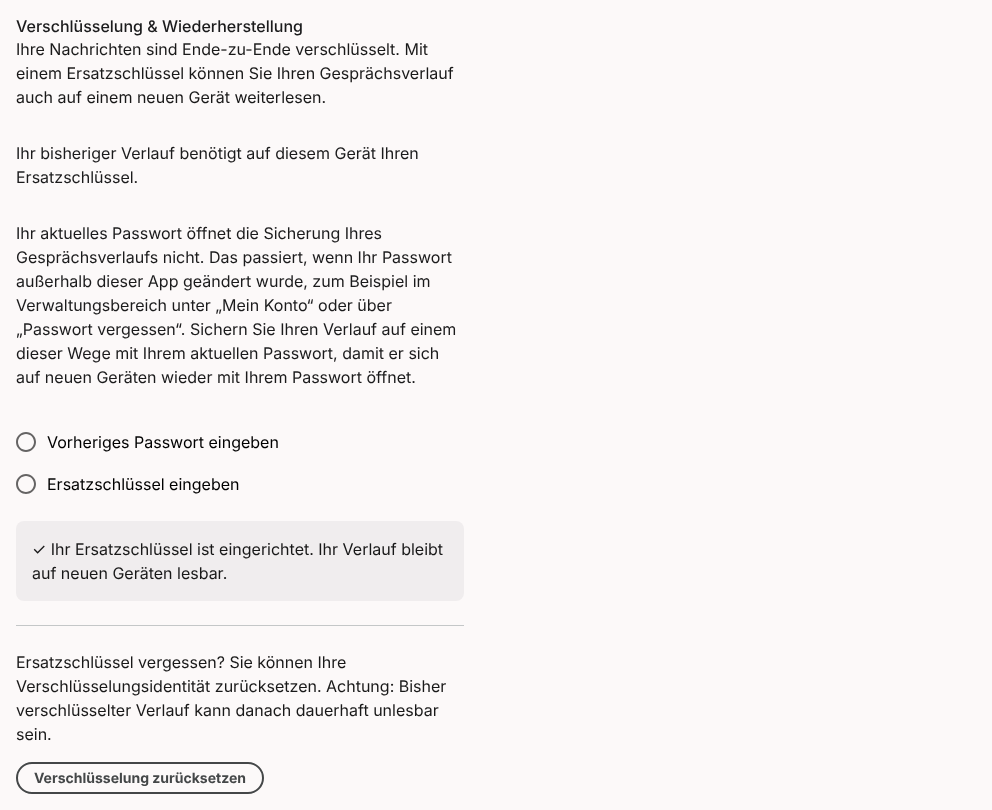
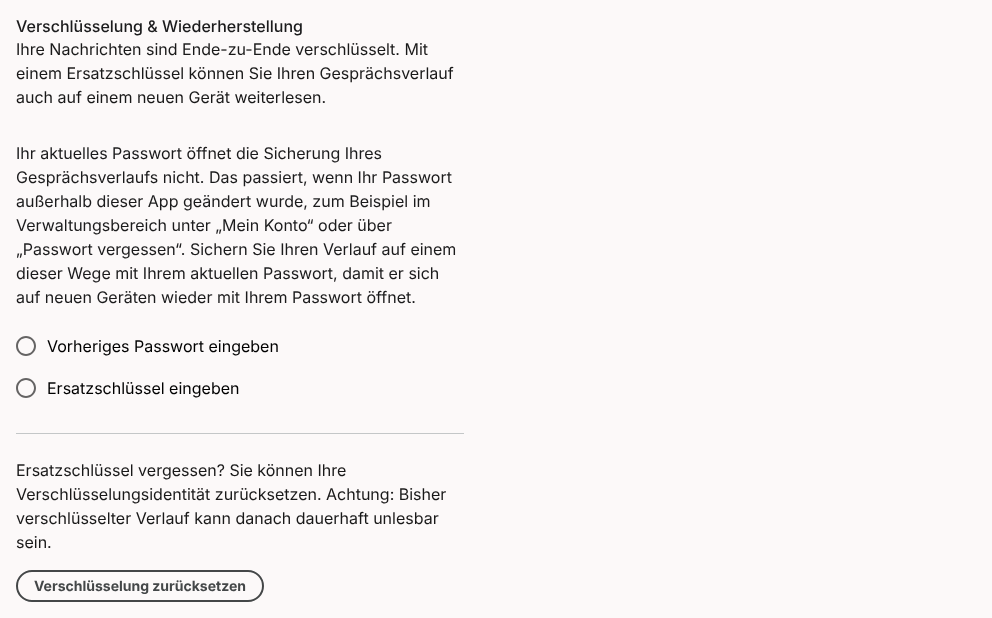
fix(e2ee): one clear message while the history is sealed under the previous password (#1931)
While the stale-envelope repair is offered, the panel showed the generic
'needs the recovery key' line above it and the green 'set up, stays readable
on new devices' box below it - the latter untrue in that state. The status
line now carries the stale explanation alone, and the success box only
appears once the history opens with the current password again.

Refs #1931

Claude-Session: https://claude.ai/code/session_012oHuLwgsF18sXNLUVhMCvk

Changed region(s): [[0.0, 0.0307, 0.4688, 0.4919], [0.0, 0.6764, 0.4688, 0.9838], [0.0, 0.5227, 0.2812, 0.6456]]

diff --git a/src/components/profile/EncryptionSettings/EncryptionSettings.test.tsx b/src/components/profile/EncryptionSettings/EncryptionSettings.test.tsx
@@ -404,8 +404,13 @@ it.each([
 				/>
 			</UserDataContext.Provider>
 		);
+		// An envelope exists (default evidence), so 'needs-recovery-key' is the stale state (#1931).
 		expect(
-			await screen.findByText('encryption.passwordRecovery.' + status)
+			await screen.findByText(
+				status === 'needs-recovery-key'
+					? 'encryption.passwordRecovery.stale.explanation'
+					: 'encryption.passwordRecovery.' + status
+			)
 		).toBeTruthy();
 		if (['idle', 'pending', 'busy'].includes(status)) {
 			expect(
@@ -569,7 +574,7 @@ describe('password recovery without any envelope', () => {
 
 		expect(
 			await screen.findByText(
-				'encryption.passwordRecovery.needs-recovery-key'
+				'encryption.passwordRecovery.stale.explanation'
 			)
 		).toBeTruthy();
 		expect(
@@ -655,6 +660,11 @@ describe('an envelope sealed under the previous password', () => {
 				'encryption.passwordRecovery.stale.useRecoveryKey'
 			)
 		).toBeTruthy();
+		// One clear message: no generic status line, no "set up, stays readable" box.
+		expect(
+			screen.queryByText('encryption.passwordRecovery.needs-recovery-key')
+		).toBeNull();
+		expect(screen.queryByText('profile.encryption.status.ok')).toBeNull();
 		// One recovery-key entry only: the repair's, which re-seals as well.
 		expect(
 			screen.queryByRole('button', { name: 'Verlauf wiederherstellen' })
@@ -692,6 +702,8 @@ describe('an envelope sealed under the previous password', () => {
 		expect(
 			await screen.findByText('encryption.passwordRecovery.ready')
 		).toBeTruthy();
+		// Sealed under the current password again: the healthy box may say so.
+		expect(screen.getByText('profile.encryption.status.ok')).toBeTruthy();
 		expect(
 			screen.queryByText('encryption.passwordRecovery.stale.explanation')
 		).toBeNull();
@@ -714,7 +726,7 @@ describe('an envelope sealed under the previous password', () => {
 			)
 		).toBeTruthy();
 		expect(
-			screen.getByText('encryption.passwordRecovery.needs-recovery-key')
+			screen.getByText('encryption.passwordRecovery.stale.explanation')
 		).toBeTruthy();
 	});
 

diff --git a/src/components/profile/EncryptionSettings/index.tsx b/src/components/profile/EncryptionSettings/index.tsx
@@ -432,7 +432,9 @@ export const EncryptionSettingsPanel = ({
 						{t(
 							offerExistingKeyEnrollment
 								? 'encryption.passwordRecovery.notEnrolled'
-								: 'encryption.passwordRecovery.' +
+								: offerStaleEnvelopeRepair
+									? 'encryption.passwordRecovery.stale.explanation'
+									: 'encryption.passwordRecovery.' +
 										passwordStatus
 						)}
 					</p>
@@ -615,15 +617,19 @@ export const EncryptionSettingsPanel = ({
 
 			{phase === 'healthy' && (
 				<>
-					<div
-						className="encryptionSettings__status encryptionSettings__status--ok"
-						data-cy="encryption-status-ok"
-					>
-						<Text
-							text={t('profile.encryption.status.ok')}
-							type="standard"
-						/>
-					</div>
+					{/* Not while the password no longer opens the history:
+					    "stays readable on new devices" would be untrue. */}
+					{!offerStaleEnvelopeRepair && (
+						<div
+							className="encryptionSettings__status encryptionSettings__status--ok"
+							data-cy="encryption-status-ok"
+						>
+							<Text
+								text={t('profile.encryption.status.ok')}
+								type="standard"
+							/>
+						</div>
+					)}
 					{recoveredCount !== null && (
 						<Text
 							text={t('profile.encryption.recover.success', {

diff --git a/src/components/profile/EncryptionSettings/StalePasswordRecovery.tsx b/src/components/profile/EncryptionSettings/StalePasswordRecovery.tsx
@@ -33,6 +33,7 @@ export type StalePasswordRecoveryProps = {
  * not open it. Two ways back, both ending with the history sealed under the CURRENT password:
  * re-wrap it with the previous password, or prove the recovery key and replace the stale copies.
  * The current password is proven first, by the same re-authentication the enrolment uses.
+ * The panel's status line carries the explanation; this renders the choice and the form.
  */
 export const StalePasswordRecovery = ({
 	userId,
@@ -101,7 +102,6 @@ export const StalePasswordRecovery = ({
 			data-cy="password-recovery-stale"
 			onSubmit={submit}
 		>
-			<p>{t('encryption.passwordRecovery.stale.explanation')}</p>
 			<RadioGroup
 				aria-label={t('encryption.passwordRecovery.stale.choose')}
 				value={method ?? ''}

diff --git a/docs/storybook/issue-1931-stale-envelope/README.md b/docs/storybook/issue-1931-stale-envelope/README.md
@@ -11,13 +11,13 @@ none of the copies), LOGIN_PASSWORD mode, 2FA active.
 "Before" was captured by running the same stories against the parent commit (panel code
 unchanged, only the new story file copied in). Viewport 1024 px, desktop.
 
-| Image                                          | Proves                                                                                                                                                                                                     |
-| ---------------------------------------------- | ---------------------------------------------------------------------------------------------------------------------------------------------------------------------------------------------------------- |
-| `01-before-same-device-desktop.png`            | Before, device that still holds the history: only the status line and "Abmelden und erneut anmelden". No way to re-seal; signing in again changes nothing.                                                 |
-| `02-before-new-device-desktop.png`             | Before, new device: status, logout, and the plain recovery-key input. Restoring with it worked, but re-sealing under the current password then failed (`repairBlocked`) whenever stale candidates existed. |
-| `03-after-choice-same-device-desktop.png`      | After: explanation of why the password no longer opens the history, and the two ways back: "Vorheriges Passwort eingeben" / "Ersatzschlüssel eingeben". The logout button is gone.                         |
-| `04-after-previous-password-desktop.png`       | After, way 1: previous password, current password and one-time code; "Mit aktuellem Passwort sichern".                                                                                                     |
-| `05-after-recovery-key-new-device-desktop.png` | After, way 2 on a new (out-of-sync) device: recovery key, current password, one-time code. The separate recovery-key input below is hidden, so there is one key entry that also re-seals.                  |
+| Image                                          | Proves                                                                                                                                                                                                                                                                                                                                                                            |
+| ---------------------------------------------- | --------------------------------------------------------------------------------------------------------------------------------------------------------------------------------------------------------------------------------------------------------------------------------------------------------------------------------------------------------------------------------- |
+| `01-before-same-device-desktop.png`            | Before, device that still holds the history: only the status line and "Abmelden und erneut anmelden". No way to re-seal; signing in again changes nothing.                                                                                                                                                                                                                        |
+| `02-before-new-device-desktop.png`             | Before, new device: status, logout, and the plain recovery-key input. Restoring with it worked, but re-sealing under the current password then failed (`repairBlocked`) whenever stale candidates existed.                                                                                                                                                                        |
+| `03-after-choice-same-device-desktop.png`      | After: one status message explains why the password no longer opens the history, followed by the two ways back: "Vorheriges Passwort eingeben" / "Ersatzschlüssel eingeben". The generic "benötigt … Ersatzschlüssel" line, the logout button and the green "eingerichtet / bleibt lesbar" box are gone (that box returns once the history is sealed under the current password). |
+| `04-after-previous-password-desktop.png`       | After, way 1: previous password, current password and one-time code; "Mit aktuellem Passwort sichern". No contradicting success box.                                                                                                                                                                                                                                              |
+| `05-after-recovery-key-new-device-desktop.png` | After, way 2 on a new (out-of-sync) device: recovery key, current password, one-time code. The separate recovery-key input is hidden, so there is one key entry that also re-seals; the out-of-sync warning stays because this device really lacks the key.                                                                                                                       |
 
 Not shown by screenshots, covered by tests instead:
 
@@ -27,6 +27,7 @@ Not shown by screenshots, covered by tests instead:
   does, a later in-app change rotates again; a proven recovery key replaces stale copies; a wrong
   key or a candidate not sealed under its own key still blocks and changes nothing.
 - The panel flows (`EncryptionSettings.test.tsx`): re-authentication with password + OTP before
-  any re-seal, the error for a wrong previous password, and the `ready` status afterwards.
+  any re-seal, the error for a wrong previous password, no success box while stale, and the
+  `ready` status plus the success box afterwards.
 - The setup-gate hook (`useAuthenticatedChatRecovery.test.tsx`): with only the second factor
   owed, the sign-in password now sets recovery up.
